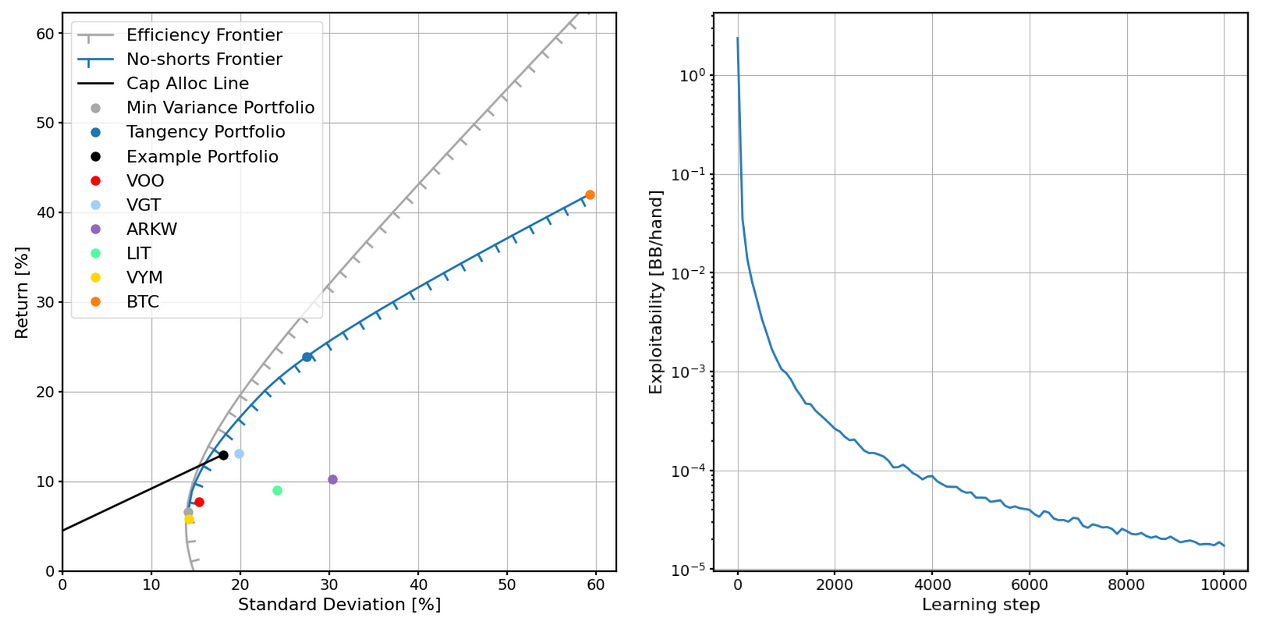
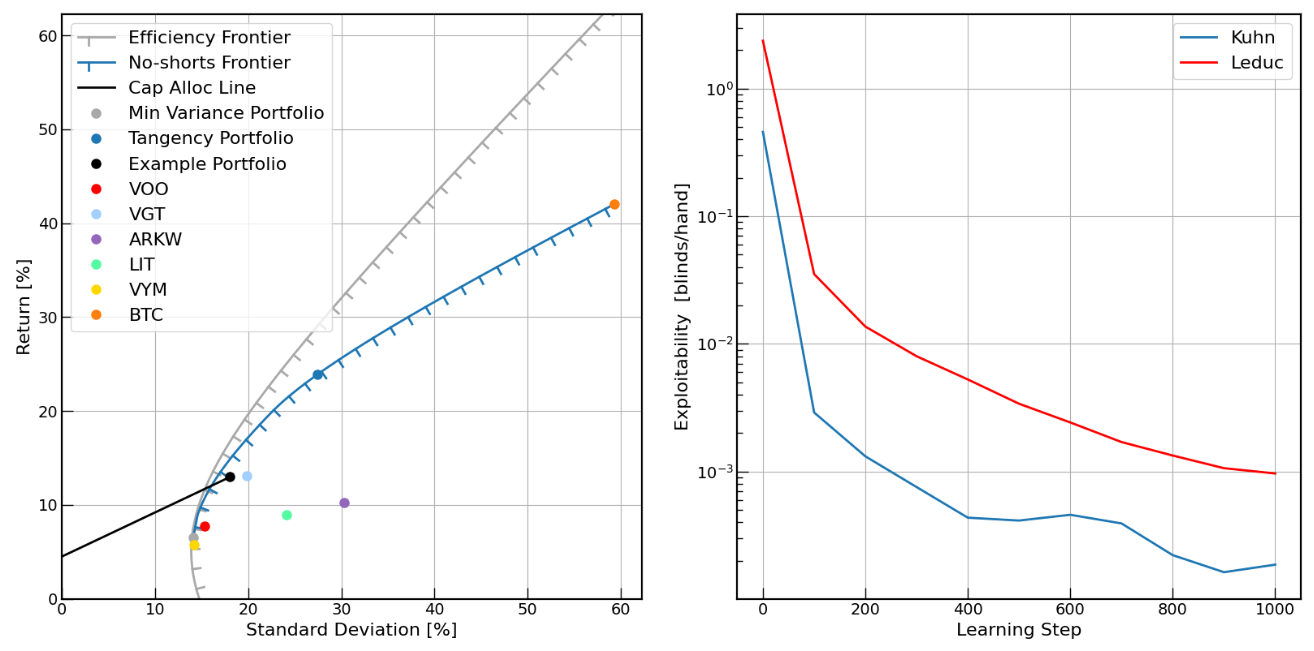
update

diff --git a/research/index.html b/research/index.html
@@ -16,7 +16,7 @@
 <meta http-equiv="Content-Style-Type" content="text/css" />
 <meta name="generator" content="pandoc" />
 <meta name="author" content="Ryan Reece" />
-<meta name="date" content="Sun Jul 21, 2024" />
+<meta name="date" content="Tue Jul 23, 2024" />
 <title>My research</title>
 <meta name="description" content="Ryan Reece&#x2019;s research pages" />
 <link rel="stylesheet" type="text/css" href="templates/markdown-memo.css" />
@@ -126,7 +126,7 @@
 <li>Counterfactual Regret Minimization (CFR) and its variants</li>
 </ul>
 <figure>
-<img src="img/markowitz-and-cfr.png" id="fig:markowitz-and-cfr" alt="Figure 5: Markowitz portfolio analysis (left). Solving Leduc poker with CFR (right)." /><figcaption aria-hidden="true">Figure 5: Markowitz portfolio analysis (left). Solving Leduc poker with CFR (right).</figcaption>
+<img src="img/markowitz-and-cfr.png" id="fig:markowitz-and-cfr" alt="Figure 5: Markowitz portfolio analysis (left). Solving Kuhn and Leduc, simplified version of poker, with CFR (right)." /><figcaption aria-hidden="true">Figure 5: Markowitz portfolio analysis (left). Solving Kuhn and Leduc, simplified version of poker, with CFR (right).</figcaption>
 </figure>
 <p>Not open sourced, but feel free to ask me about them.</p>
 <hr />
@@ -178,7 +178,7 @@
   <div class="signature">
     <p><i>Ryan Reece</i></p>
     <p><img class="email" src="img/my-email.png" alt="my email address"/></p>
-    <p>Sun Jul 21, 2024</p>
+    <p>Tue Jul 23, 2024</p>
   </div>
   <div class="license">
     <p>&#xA9; 2013-2024 <a href="http://rreece.github.io/">Ryan Reece</a>. All rights reserved.</p>
